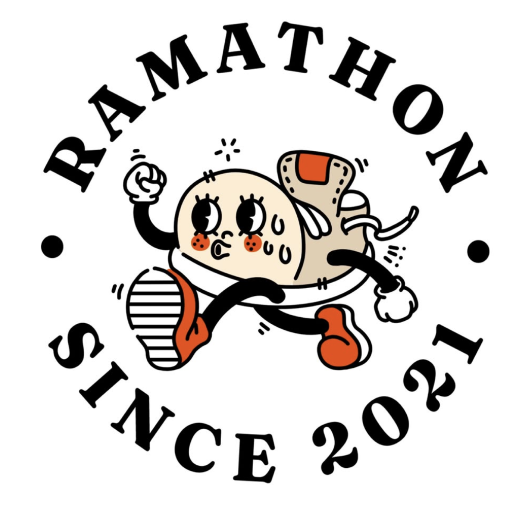
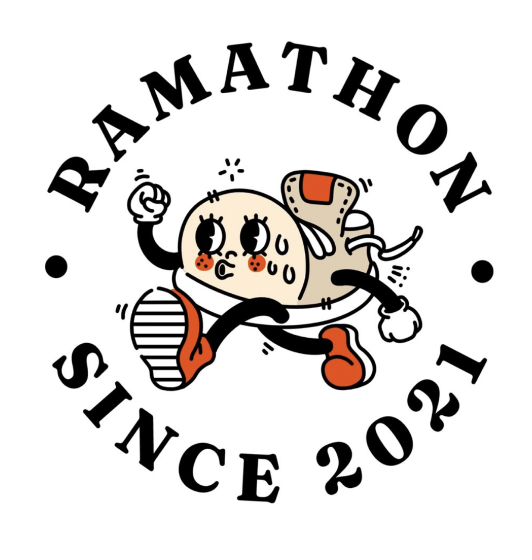
fix orange, tba date of event

diff --git a/app.py b/app.py
@@ -43,7 +43,7 @@ TRANSLATIONS = {
         'footer_line': 'Join OpenChat',
         # Countdown & Header
         'countdown_intro': "The fun starts now! Let's run Ramathibodians! Link your Strava now!",
-        'countdown_sub': "Shirt Quest starts Q2 2026: Apr 1st! (But Yearly Rank XP accumulation starts TODAY!)",
+        'countdown_sub': "Shirt challenges begin Q2 2026: 1 Apr 2026! (Yearly distance accumulation starts today!)",
         'countdown_label': 'SEASON STARTS IN:',
         # RPG Specific
         'stats_month': 'MONTHLY GRIND',
@@ -79,7 +79,7 @@ TRANSLATIONS = {
         'filter_all_teams': 'All Teams',
         'filter_all_years': 'All Years',
         'filter_all_campus': 'All Campuses',
-        # Options
+        # Options (FIXED: Added missing options here)
         'opt_md': 'MD (Medicine)',
         'opt_nr': 'NR (Nursing)',
         'opt_er': 'ER (Paramedic)',
@@ -98,7 +98,7 @@ TRANSLATIONS = {
         'rpg_monthly_desc': 'Goal: 50 KM. Resets every month. Collect badges!',
         'rpg_quarterly_title': 'Quarterly Quest',
         'rpg_quarterly_desc': 'Goal: 100 KM within the current quarter. Unlocks Shirt (1/Year).',
-        'rpg_quarterly_note': '(Distance resets every quarter: Jan-Mar, Apr-Jun, etc.)',
+        'rpg_quarterly_note': '(Distance resets every quarter: Apr-Jun, etc.)',
         'rpg_annual_title': 'Annual Career Ranks',
         'rpg_annual_desc': 'Accumulate distance all year to rank up!',
         'rpg_special_title': 'Year-End Rewards',
@@ -129,11 +129,11 @@ TRANSLATIONS = {
         'meetup_loc_label': 'Locations:',
         'meetup_loc_val': 'Suan Chitralada & Benchakitti Park',
         'meetup_time_label': 'Time:',
-        'meetup_time_val': 'Every last Sunday of the month, 06:00 AM',
+        'meetup_time_val': 'TBA',
         'meetup_pace_label': 'Pace:',
         'meetup_pace_val': 'Zone 2 (Conversation Pace)',
         'meetup_next_box': 'Next Session:',
-        'meetup_next_date': 'February 22, 2026 @ Benchakitti Park',
+        'meetup_next_date': 'TBA @ Benchakitti Park',
         'meetup_meeting_point': 'Meeting Point: Main Amphitheater',
         # Recap 2024 Page
         'recap_top_label': 'ARCHIVE REPORT: TK13',
@@ -168,8 +168,8 @@ TRANSLATIONS = {
         'view_profile': 'ดูโปรไฟล์',
         'footer_line': 'เข้ากลุ่ม OpenChat',
         # Countdown & Header
-        'countdown_intro': "ความสนุกเริ่มแล้ว! ชาวรามาธิบดีเชื่อมต่อ Strava แล้วออกวิ่งได้เลย!",
-        'countdown_sub': "ภารกิจชิงเสื้อเริ่ม Q2 2569: 1 เมษายน 2569 (แต่เริ่มสะสมระยะทางประจำปีเพื่อลุ้นรางวัลใหญ่ได้ตั้งแต่วันนี้)",
+        'countdown_intro': "ความสนุกเริ่มแล้ว! ชาวรามาธิบดีเชื่อมต่อ Strava ได้เลย!",
+        'countdown_sub': "ภารกิจชิงเสื้อเริ่ม Q2 2569: 1 เมษายน 2569 (แต่เริ่มสะสมระยะทางประจำปีได้ตั้งแต่วันนี้!)",
         'countdown_label': 'เปิดซีซั่นในอีก:',
         # RPG Specific
         'stats_month': 'ภารกิจรายเดือน',
@@ -205,7 +205,14 @@ TRANSLATIONS = {
         'filter_all_teams': 'ทุกทีม',
         'filter_all_years': 'ทุกชั้นปี',
         'filter_all_campus': 'ทุกวิทยาเขต',
-        # Options
+        # Options (FIXED: Added missing options here)
+        'opt_md': 'MD (แพทยศาสตร์)',
+        'opt_nr': 'NR (พยาบาลศาสตร์)',
+        'opt_er': 'ER (ฉุกเฉินการแพทย์)',
+        'opt_cd': 'CD (สื่อสารความหมายฯ)',
+        'opt_staff': 'Staff (อาจารย์/บุคลากร)',
+        'opt_other': 'Other (อื่นๆ)',
+        'opt_grad': 'ศิษย์เก่า (Alumni)',
         'opt_pyt': 'พญาไท',
         'opt_cnmi': 'จักรีนฤบดินทร์',
         'opt_salaya': 'ศาลายา',
@@ -217,7 +224,7 @@ TRANSLATIONS = {
         'rpg_monthly_desc': 'เป้าหมาย: 50 กม. รีเซ็ตทุกเดือน สะสมเหรียญเดือน!',
         'rpg_quarterly_title': 'ภารกิจพิชิตเสื้อ (ไตรมาส)',
         'rpg_quarterly_desc': 'เป้าหมาย: 100 กม. ภายในไตรมาสเพื่อรับเสื้อ (จำกัด 1 ตัว/ปี)',
-        'rpg_quarterly_note': '(ระยะสะสมนับใหม่ทุกไตรมาส: ม.ค.-มี.ค., เม.ย.-มิ.ย. เป็นต้น)',
+        'rpg_quarterly_note': '(ระยะสะสมนับใหม่ทุกไตรมาส: เม.ย.-มิ.ย. เป็นต้น)',
         'rpg_annual_title': 'ระดับนักวิ่งประจำปี',
         'rpg_annual_desc': 'สะสมระยะวิ่งทั้งปีเพื่อเลื่อนยศ!',
         'rpg_special_title': 'รางวัลพิเศษปลายปี',
@@ -248,11 +255,11 @@ TRANSLATIONS = {
         'meetup_loc_label': 'สถานที่:',
         'meetup_loc_val': 'สวนจิตรลดา และ สวนเบญจกิติ',
         'meetup_time_label': 'เวลา:',
-        'meetup_time_val': 'ทุกวันอาทิตย์สุดท้ายของเดือน เวลา 06:00 น.',
+        'meetup_time_val': 'TBA',
         'meetup_pace_label': 'เพซ (Pace):',
         'meetup_pace_val': 'โซน 2 (Conversation Pace วิ่งไปคุยไป)',
         'meetup_next_box': 'นัดถัดไป:',
-        'meetup_next_date': '22 กุมภาพันธ์ 2569 @ สวนเบญจกิติ',
+        'meetup_next_date': 'TBA @ สวนเบญจกิติ',
         'meetup_meeting_point': 'จุดนัดพบ: อัฒจันทร์ใหญ่ (Amphitheater)',
         # Recap 2024 Page
         'recap_top_label': 'รายงานสรุปผล: TK13',
